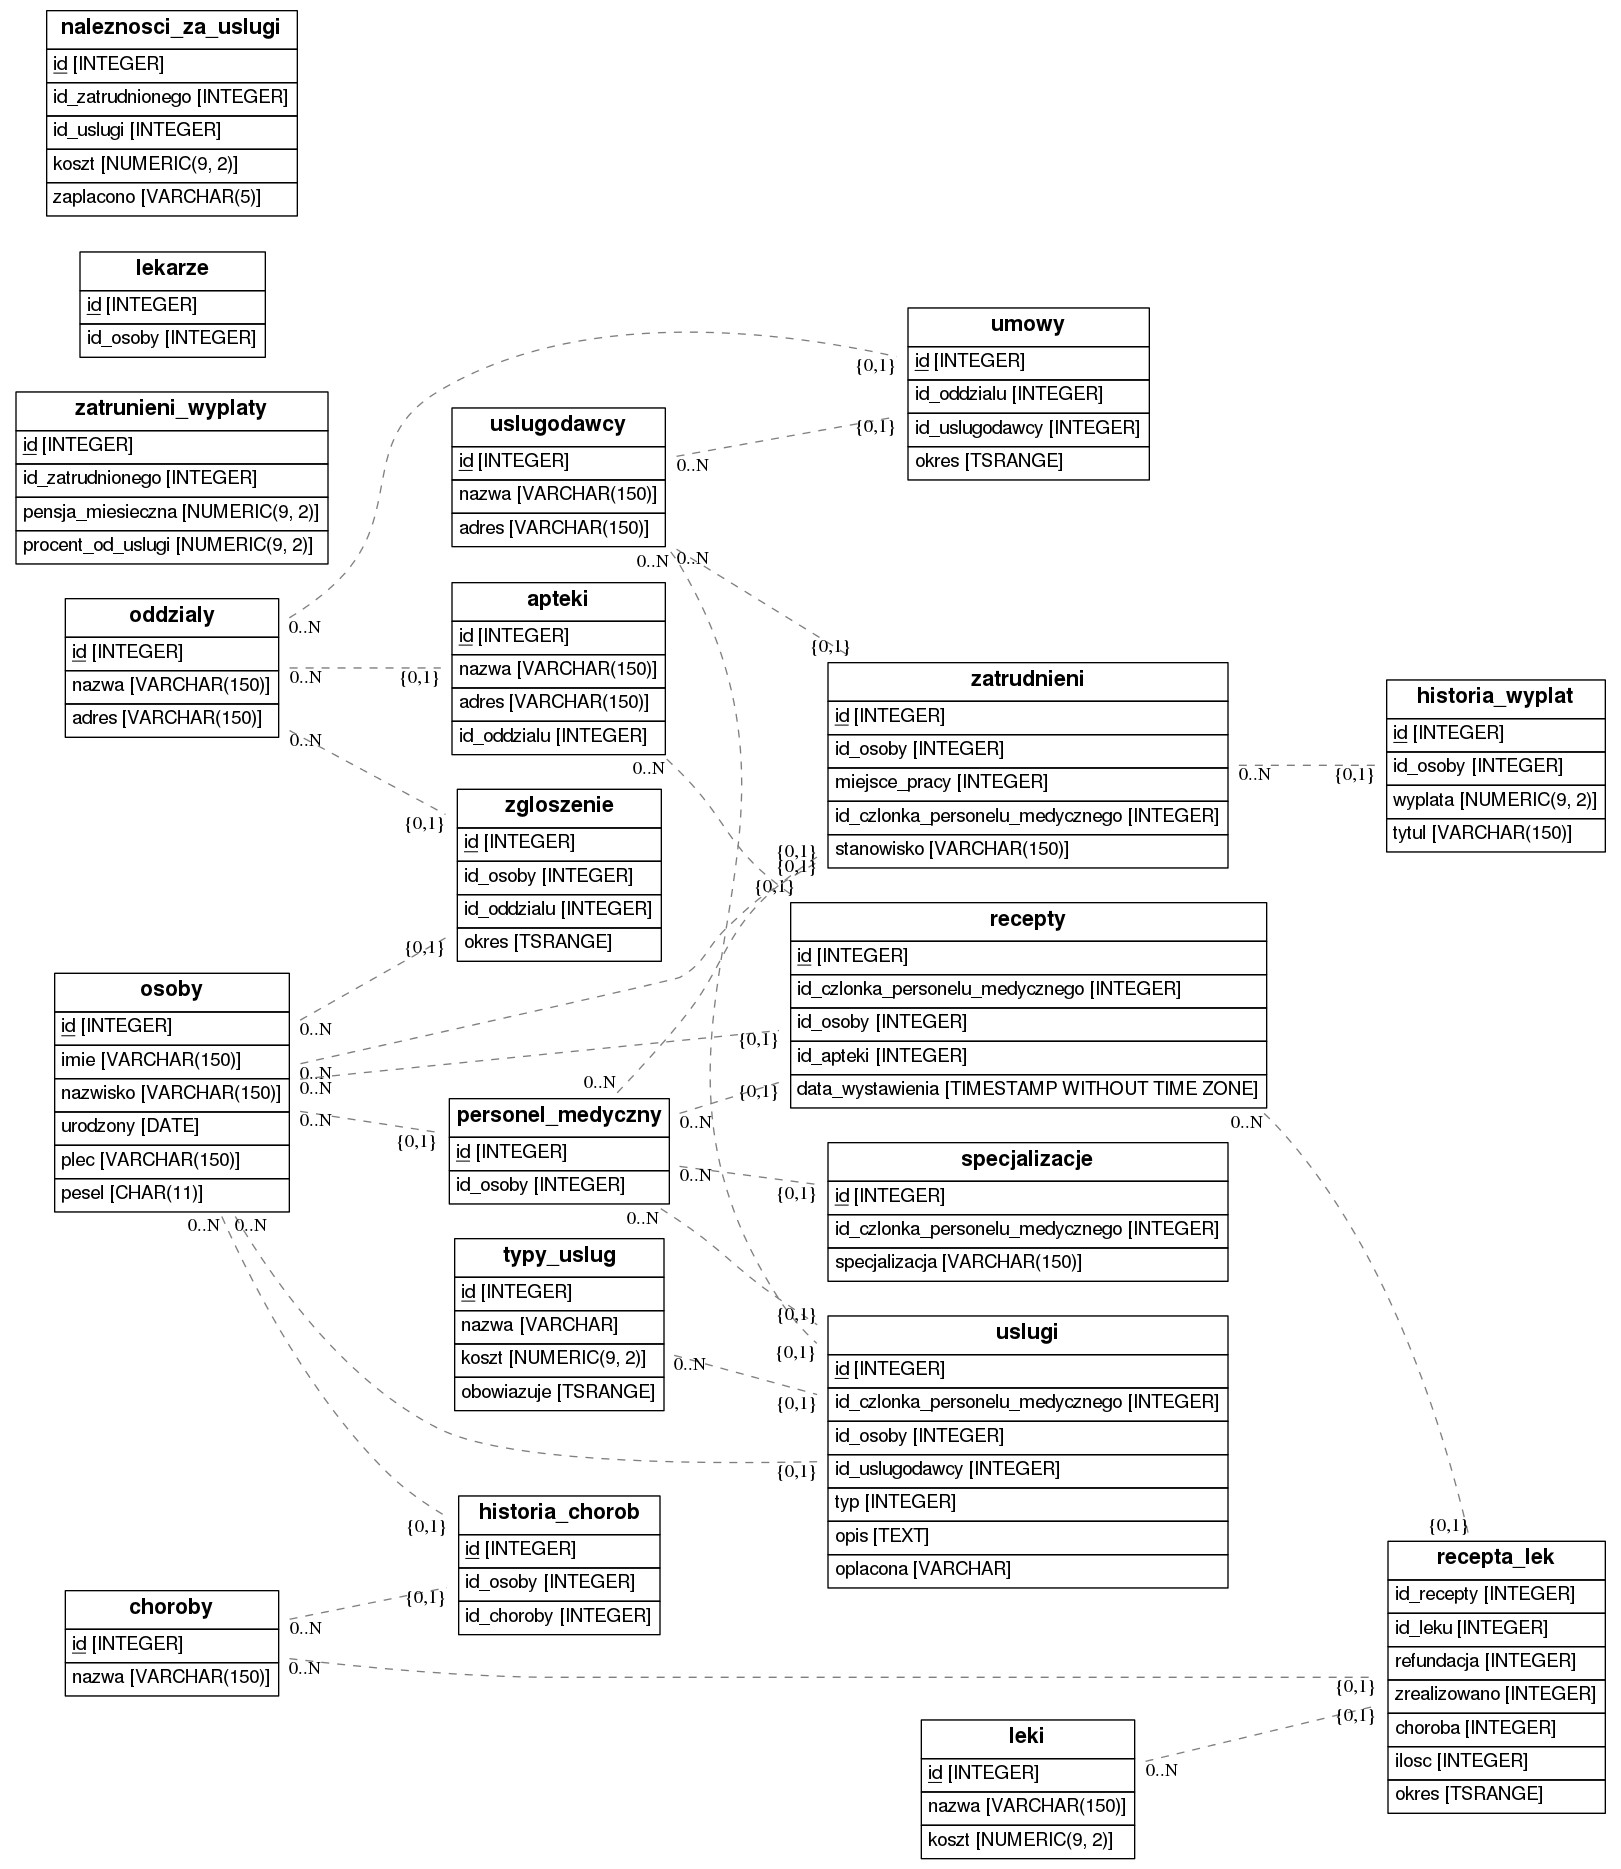
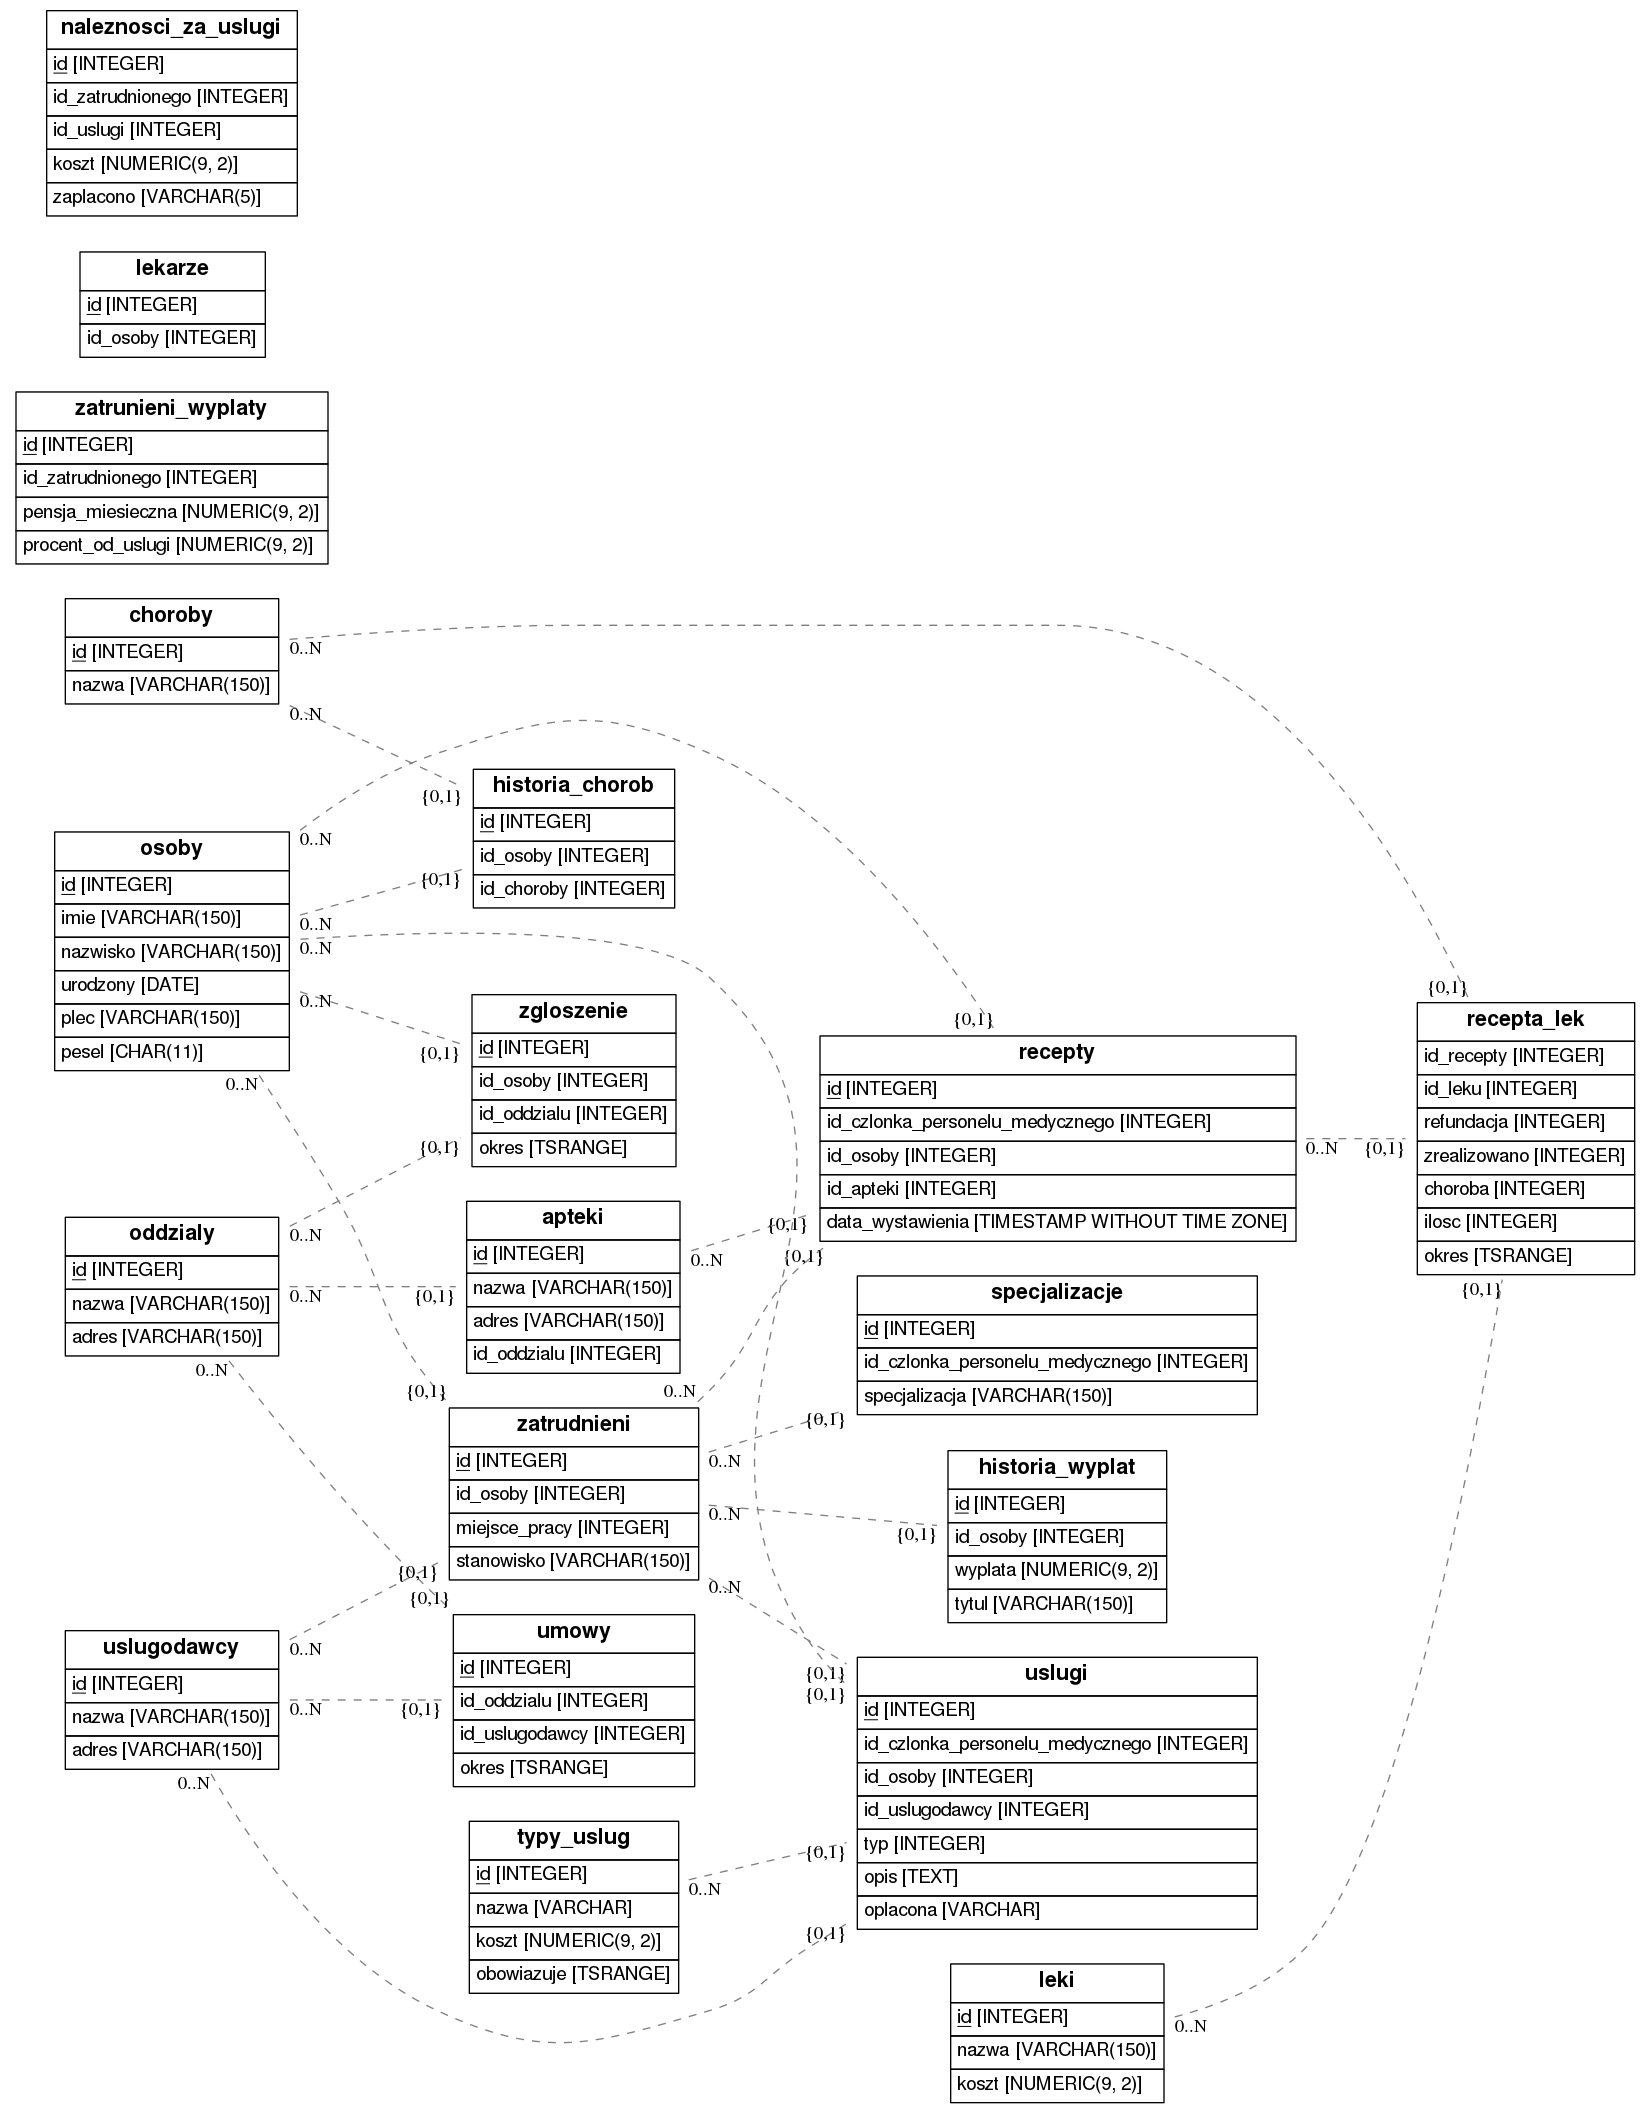
remove personel_medyczny

diff --git a/gen-misc.py b/gen-misc.py
@@ -1,18 +1,10 @@
 import random
 
-print 'insert into personel_medyczny (id_osoby) values'
-
-people = range(1, 1000)
-random.shuffle(people)
-tuples = ['(%d)' % i for i in people[:50]]
-print ', '.join(tuples) + ';'
-
 print 'insert into choroby (nazwa) values'
 print ', '.join("('%s')" % name.strip().split("'")[0] for name in open('choroby.txt') ) + ';'
 
-print 'insert into zatrudnieni (id_osoby, miejsce_pracy, id_czlonka_personelu_medycznego, stanowisko) values'
-print ', '.join("(%d, %d, %d, '%s')" % (
-    random.randrange(1, 10),
+print 'insert into zatrudnieni (id_osoby, miejsce_pracy, stanowisko) values'
+print ', '.join("(%d, %d, '%s')" % (
     random.randrange(1, 10),
     random.randrange(1, 10),
     random.choice(['Lekarz', 'Pielegniarka', 'Ordynator'])
